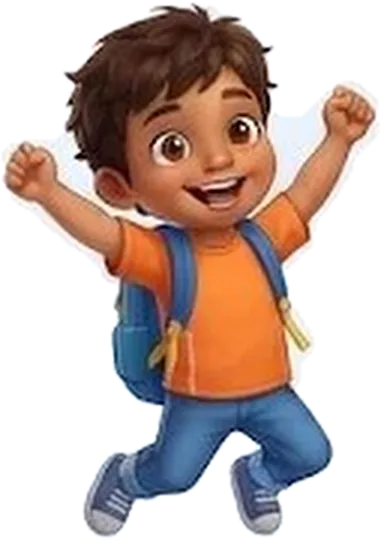
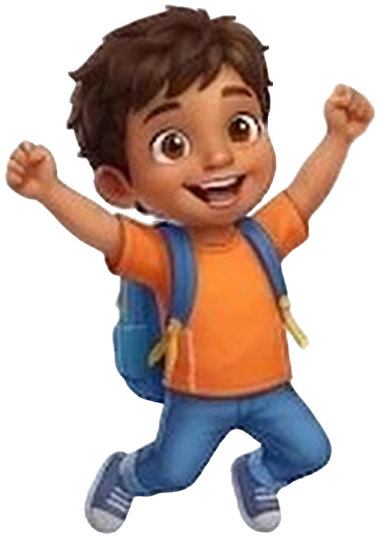
Clean MyPal cut-outs, dinosaur Memory cards, Space Scale for 6-8 only
- Re-extract all four MyPal poses with a cartoon-character segmentation
  model: the white photo leftovers (between the arms, around the jump pose,
  above the tablet, the ground shadow) and the pale halo are gone. Edge
  pixels take the character's own colours, so he looks clean on dark and
  light screens. Higher-quality WebP; head, favicon and touch icon redone.
- Memory: eight dinosaur cards (T. rex, Triceratops, Stegosaurus, long-neck,
  Pterodactyl, baby dino in an egg, Ankylosaurus, Spinosaurus) with a fern
  card back.
- Learn: Space Scale is offered to ages 6-8 only; the navigation check now
  expects no Space Scale tile for 3-5.

diff --git a/src/games/memory/icons.tsx b/src/games/memory/icons.tsx
@@ -1,126 +1,134 @@
 import type { ReactNode } from "react";
 
+// Eight friendly dinosaur cards, drawn on a 64×64 grid with the site's thick dark
+// outline so each pair is easy to tell apart at a glance.
 export const memoryIcons = {
-  sat: "Saturn",
-  rocket: "Rocket",
-  star: "Star",
-  ufo: "UFO",
-  moon: "Moon",
-  astro: "Astronaut",
-  comet: "Comet",
-  alien: "Alien",
+  trex: "T. rex",
+  tri: "Triceratops",
+  stego: "Stegosaurus",
+  longneck: "Long-neck dinosaur",
+  ptero: "Pterodactyl",
+  egg: "Baby dino in an egg",
+  ankylo: "Ankylosaurus",
+  spino: "Spinosaurus",
 } as const;
 
 export type MemoryIconName = keyof typeof memoryIcons;
 
+const line = { stroke: "#1E1B4B", strokeWidth: 3.5, strokeLinejoin: "round", strokeLinecap: "round" } as const;
+const thin = { stroke: "#1E1B4B", strokeWidth: 2.5, strokeLinejoin: "round", strokeLinecap: "round" } as const;
+
+/** A side-view eye with a shine dot and a rosy cheek. */
+function Eye({ x, y }: { x: number; y: number }) {
+  return <>
+    <ellipse cx={x} cy={y} rx="2.7" ry="3.3" fill="#1E1B4B" />
+    <circle cx={x + 0.9} cy={y - 1.2} r="1.1" fill="#fff" />
+  </>;
+}
+
+function Cheek({ x, y }: { x: number; y: number }) {
+  return <ellipse cx={x} cy={y} rx="3" ry="2" fill="#FF6B9A" opacity=".7" />;
+}
+
 const artwork: Record<MemoryIconName, ReactNode> = {
-  sat: <>
-    <path d="M6 40Q4 28 32 22" fill="none" stroke="#1E1B4B" strokeWidth="11" strokeLinecap="round" opacity="0" />
-    <path d="M5 38Q10 24 32 24" fill="none" stroke="#1E1B4B" strokeWidth="8" strokeLinejoin="round" strokeLinecap="round" />
-    <path d="M5 38Q10 24 32 24" fill="none" stroke="#8B7CFF" strokeWidth="4" strokeLinecap="round" />
-    <circle cx="32" cy="32" r="19" fill="#FFB347" stroke="#1E1B4B" strokeWidth="3.5" strokeLinejoin="round" strokeLinecap="round" />
-    <path d="M14 27Q32 33 50 27M15 40Q32 46 49 40" stroke="#FF8A3D" strokeWidth="4" fill="none" strokeLinecap="round" opacity=".6" />
-    <ellipse cx="23" cy="21" rx="5" ry="3" fill="#fff" opacity=".55" transform="rotate(-30 23 21)" />
-    <ellipse cx="25" cy="32" rx="2.9" ry="3.5" fill="#1E1B4B" />
-    <ellipse cx="39" cy="32" rx="2.9" ry="3.5" fill="#1E1B4B" />
-    <circle cx="26" cy="30.8" r="1.1" fill="#fff" />
-    <circle cx="40" cy="30.8" r="1.1" fill="#fff" />
-    <ellipse cx="21" cy="37" rx="3" ry="2" fill="#FF6B9A" opacity=".7" />
-    <ellipse cx="43" cy="37" rx="3" ry="2" fill="#FF6B9A" opacity=".7" />
-    <path d="M27 37Q32 43 37 37Z" fill="#7F1D3A" stroke="#1E1B4B" strokeWidth="2" strokeLinejoin="round" />
-    <path d="M59 38Q54 52 32 52" fill="none" stroke="#1E1B4B" strokeWidth="8" strokeLinejoin="round" strokeLinecap="round" />
-    <path d="M59 38Q54 52 32 52" fill="none" stroke="#8B7CFF" strokeWidth="4" strokeLinecap="round" />
+  trex: <>
+    <path d="M17 44Q7 46 3 57Q13 54 20 50z" fill="#4ADE80" {...line} />
+    <rect x="21" y="49" width="7" height="10" rx="3" fill="#22C55E" {...thin} />
+    <rect x="32" y="49" width="7" height="10" rx="3" fill="#22C55E" {...thin} />
+    <ellipse cx="30" cy="41" rx="14" ry="12" fill="#4ADE80" {...line} />
+    <path d="M24 39Q30 45 36 39" fill="none" stroke="#BBF7D0" strokeWidth="4" strokeLinecap="round" />
+    <path d="M40 36l6 2-1 4" fill="none" {...thin} />
+    <path d="M25 13Q25 5 35 5h14q11 0 11 10v8q0 7-8 7H37q-9 0-11-7z" fill="#4ADE80" {...line} />
+    <path d="M41 23h16" {...thin} />
+    <path d="M44 23l2 3 2-3M50 23l2 3 2-3" fill="#fff" stroke="#1E1B4B" strokeWidth="1.5" strokeLinejoin="round" />
+    <Eye x={37} y={14} />
+    <Cheek x={33} y={21} />
+    <circle cx="26" cy="33" r="2" fill="#22C55E" /><circle cx="20" cy="40" r="1.6" fill="#22C55E" />
   </>,
-  rocket: <>
-    <path d="M16 38L5 52l14-2zM48 38l11 14-14-2z" fill="#FF6B4A" stroke="#1E1B4B" strokeWidth="3.5" strokeLinejoin="round" strokeLinecap="round" />
-    <path d="M25 48h14l-7 13z" fill="#FFD13B" stroke="#1E1B4B" strokeWidth="3.5" strokeLinejoin="round" strokeLinecap="round" />
-    <path d="M32 4Q52 18 48 46H16Q12 18 32 4z" fill="#F8FAFC" stroke="#1E1B4B" strokeWidth="3.5" strokeLinejoin="round" strokeLinecap="round" />
-    <path d="M32 4Q44 12 46 28" fill="none" stroke="#E2E8F0" strokeWidth="4" strokeLinecap="round" />
-    <path d="M32 4Q26 8 24 14Q32 10 40 14Q38 8 32 4z" fill="#FF6B4A" stroke="#1E1B4B" strokeWidth="2.5" strokeLinejoin="round" strokeLinecap="round" />
-    <circle cx="32" cy="26" r="9" fill="#38BDF8" stroke="#1E1B4B" strokeWidth="3.5" strokeLinejoin="round" strokeLinecap="round" />
-    <circle cx="29" cy="23" r="2.6" fill="#fff" opacity=".85" />
-    <ellipse cx="27" cy="40" rx="2.9" ry="2.6" fill="#1E1B4B" />
-    <ellipse cx="37" cy="40" rx="2.9" ry="2.6" fill="#1E1B4B" />
-    <circle cx="28" cy="38.8" r="1.1" fill="#fff" />
-    <circle cx="38" cy="38.8" r="1.1" fill="#fff" />
-    <ellipse cx="23" cy="45" rx="3" ry="2" fill="#FF6B9A" opacity=".7" />
-    <ellipse cx="41" cy="45" rx="3" ry="2" fill="#FF6B9A" opacity=".7" />
-    <path d="M28.5 45Q32 51 35.5 45Z" fill="#7F1D3A" stroke="#1E1B4B" strokeWidth="2" strokeLinejoin="round" />
+  tri: <>
+    <path d="M10 42Q3 42 2 48Q8 47 12 47z" fill="#FF8A3D" {...thin} />
+    <rect x="12" y="46" width="6" height="11" rx="3" fill="#EA6A1F" {...thin} />
+    <rect x="30" y="46" width="6" height="11" rx="3" fill="#EA6A1F" {...thin} />
+    <ellipse cx="25" cy="40" rx="16" ry="11" fill="#FF8A3D" {...line} />
+    <circle cx="43" cy="29" r="15" fill="#FFD13B" {...line} />
+    <path d="M33 22l-2-3M37 17l-1-3M43 15v-3M49 17l1-3M53 22l2-3" stroke="#1E1B4B" strokeWidth="2.5" strokeLinecap="round" />
+    <path d="M42 26L36 9l10 15z" fill="#F8FAFC" {...thin} />
+    <path d="M52 27l6-15 1 16z" fill="#F8FAFC" {...thin} />
+    <ellipse cx="48" cy="38" rx="12" ry="10" fill="#FF8A3D" {...line} />
+    <path d="M58 35l5-5-1 8z" fill="#F8FAFC" {...thin} />
+    <Eye x={47} y={35} />
+    <Cheek x={51} y={42} />
+    <path d="M53 44q3 2 6 0" fill="none" {...thin} />
   </>,
-  star: <>
-    <path d="M32 4l8.6 17.6 19.4 2.8-14 13.7 3.3 19.3L32 48.3 14.7 57.4 18 38.1 4 24.4l19.4-2.8z" fill="#FFD13B" stroke="#1E1B4B" strokeWidth="3.5" strokeLinejoin="round" strokeLinecap="round" />
-    <path d="M32 10l5 11" stroke="#FFF3A8" strokeWidth="4" strokeLinecap="round" fill="none" />
-    <ellipse cx="25" cy="31" rx="2.9" ry="3.5" fill="#1E1B4B" />
-    <ellipse cx="39" cy="31" rx="2.9" ry="3.5" fill="#1E1B4B" />
-    <circle cx="26" cy="29.8" r="1.1" fill="#fff" />
-    <circle cx="40" cy="29.8" r="1.1" fill="#fff" />
-    <ellipse cx="21" cy="36" rx="3" ry="2" fill="#FF6B9A" opacity=".7" />
-    <ellipse cx="43" cy="36" rx="3" ry="2" fill="#FF6B9A" opacity=".7" />
-    <path d="M27 36Q32 42 37 36Z" fill="#7F1D3A" stroke="#1E1B4B" strokeWidth="2" strokeLinejoin="round" />
+  stego: <>
+    <path d="M14 27l2-12 7 10zM24 23l4-13 6 13zM35 23l5-11 4 13zM45 27l6-8 2 11z" fill="#FFD13B" {...thin} />
+    <path d="M10 46Q3 44 2 38l4 2 1-5 4 6" fill="#8B7CFF" {...thin} />
+    <rect x="15" y="44" width="7" height="13" rx="3" fill="#6D5DEB" {...thin} />
+    <rect x="38" y="44" width="7" height="13" rx="3" fill="#6D5DEB" {...thin} />
+    <path d="M8 46Q10 24 31 23q20 1 25 19 4 5 6 6-6 4-13 1H8z" fill="#8B7CFF" {...line} />
+    <path d="M16 38Q30 30 44 38" fill="none" stroke="#B6A9FF" strokeWidth="4" strokeLinecap="round" />
+    <Eye x={53} y={41} />
+    <path d="M56 46q2 1 4-1" fill="none" stroke="#1E1B4B" strokeWidth="2" strokeLinecap="round" />
   </>,
-  ufo: <>
-    <path d="M20 30Q20 8 32 8t12 22z" fill="#A5F3FC" stroke="#1E1B4B" strokeWidth="3.5" strokeLinejoin="round" strokeLinecap="round" />
-    <ellipse cx="32" cy="22" rx="6" ry="8" fill="#2CE69B" stroke="#1E1B4B" strokeWidth="2.5" />
-    <circle cx="30" cy="21" r="1.6" fill="#1E1B4B" />
-    <circle cx="35" cy="21" r="1.6" fill="#1E1B4B" />
-    <ellipse cx="32" cy="35" rx="28" ry="11" fill="#8B7CFF" stroke="#1E1B4B" strokeWidth="3.5" strokeLinejoin="round" strokeLinecap="round" />
-    <ellipse cx="32" cy="32" rx="20" ry="4" fill="#B6A9FF" opacity=".6" />
-    <circle cx="14" cy="37" r="3.2" fill="#FFD13B" stroke="#1E1B4B" strokeWidth="2" />
-    <circle cx="32" cy="41" r="3.2" fill="#FFD13B" stroke="#1E1B4B" strokeWidth="2" />
-    <circle cx="50" cy="37" r="3.2" fill="#FFD13B" stroke="#1E1B4B" strokeWidth="2" />
-    <path d="M22 47l-5 12M42 47l5 12" stroke="#FFD13B" strokeWidth="4" strokeLinecap="round" opacity=".8" />
+  longneck: <>
+    <path d="M10 44Q2 46 2 55Q8 51 13 50z" fill="#38BDF8" {...thin} />
+    <rect x="12" y="46" width="7" height="12" rx="3" fill="#0EA5E9" {...thin} />
+    <rect x="29" y="46" width="7" height="12" rx="3" fill="#0EA5E9" {...thin} />
+    <ellipse cx="24" cy="43" rx="16" ry="10" fill="#38BDF8" {...line} />
+    <path d="M31 37Q41 31 41 14h9q1 22-12 31z" fill="#38BDF8" {...line} />
+    <ellipse cx="49" cy="12" rx="11" ry="7" fill="#38BDF8" {...line} />
+    <path d="M44 22q2 6 0 12" fill="none" stroke="#BAE6FD" strokeWidth="3" strokeLinecap="round" />
+    <Eye x={50} y={10} />
+    <Cheek x={53} y={15} />
+    <path d="M55 15q2 1 3-1" fill="none" stroke="#1E1B4B" strokeWidth="2" strokeLinecap="round" />
+    <circle cx="18" cy="40" r="2" fill="#0EA5E9" /><circle cx="26" cy="37" r="1.6" fill="#0EA5E9" />
   </>,
-  moon: <>
-    <path d="M40 5A27 27 0 1 0 59 44 22 22 0 0 1 40 5z" fill="#FFD13B" stroke="#1E1B4B" strokeWidth="3.5" strokeLinejoin="round" strokeLinecap="round" />
-    <path d="M26 14Q14 22 14 34" fill="none" stroke="#FFF3A8" strokeWidth="4" strokeLinecap="round" />
-    <circle cx="22" cy="42" r="4" fill="#F5B800" stroke="#1E1B4B" strokeWidth="2" />
-    <ellipse cx="20" cy="32" rx="2.9" ry="3.5" fill="#1E1B4B" />
-    <ellipse cx="32" cy="32" rx="2.9" ry="3.5" fill="#1E1B4B" />
-    <circle cx="21" cy="30.8" r="1.1" fill="#fff" />
-    <circle cx="33" cy="30.8" r="1.1" fill="#fff" />
-    <ellipse cx="16" cy="37" rx="3" ry="2" fill="#FF6B9A" opacity=".7" />
-    <ellipse cx="36" cy="37" rx="3" ry="2" fill="#FF6B9A" opacity=".7" />
-    <path d="M22 37Q26 43 30 37Z" fill="#7F1D3A" stroke="#1E1B4B" strokeWidth="2" strokeLinejoin="round" />
-    <path d="M52 12l2 4 4 2-4 2-2 4-2-4-4-2 4-2z" fill="#fff" stroke="#1E1B4B" strokeWidth="1.5" strokeLinejoin="round" />
+  ptero: <>
+    <path d="M30 30L3 16q6 13 4 23 12-7 23-3z" fill="#FF6B9A" {...line} />
+    <path d="M34 30L61 16q-6 13-4 23-12-7-23-3z" fill="#FF6B9A" {...line} />
+    <path d="M9 22q9 5 17 9M55 22q-9 5-17 9" stroke="#FFC2D6" strokeWidth="2.5" fill="none" strokeLinecap="round" />
+    <ellipse cx="32" cy="38" rx="7" ry="11" fill="#FF8FB1" {...line} />
+    <path d="M28 49l-2 6M36 49l2 6" {...thin} />
+    <path d="M27 14L17 6l13 4z" fill="#FFD13B" {...thin} />
+    <circle cx="32" cy="18" r="8.5" fill="#FF8FB1" {...line} />
+    <path d="M39 16l13 3-13 4z" fill="#FFD13B" {...thin} />
+    <Eye x={33} y={16} />
+    <Cheek x={29} y={22} />
   </>,
-  astro: <>
-    <circle cx="32" cy="32" r="26" fill="#F8FAFC" stroke="#1E1B4B" strokeWidth="3.5" strokeLinejoin="round" strokeLinecap="round" />
-    <rect x="13" y="17" width="38" height="29" rx="14" fill="#2B2A7A" stroke="#1E1B4B" strokeWidth="3.5" strokeLinejoin="round" strokeLinecap="round" />
-    <path d="M18 24Q24 20 34 21" stroke="#8FA8FF" strokeWidth="3" fill="none" strokeLinecap="round" />
-    <ellipse cx="25" cy="33" rx="2.9" ry="3.5" fill="#fff" />
-    <ellipse cx="39" cy="33" rx="2.9" ry="3.5" fill="#fff" />
-    <circle cx="26" cy="31.8" r="1.1" fill="#fff" />
-    <circle cx="40" cy="31.8" r="1.1" fill="#fff" />
-    <ellipse cx="21" cy="38" rx="3" ry="2" fill="#FF6B9A" opacity=".7" />
-    <ellipse cx="43" cy="38" rx="3" ry="2" fill="#FF6B9A" opacity=".7" />
-    <path d="M27 38Q32 44 37 38Z" fill="#7F1D3A" stroke="#1E1B4B" strokeWidth="2" strokeLinejoin="round" />
-    <rect x="26" y="52" width="12" height="7" rx="3" fill="#FF6B4A" stroke="#1E1B4B" strokeWidth="2.5" />
-    <circle cx="55" cy="22" r="4" fill="#FF6B4A" stroke="#1E1B4B" strokeWidth="2.5" />
+  egg: <>
+    <circle cx="32" cy="24" r="14" fill="#4ADE80" {...line} />
+    <path d="M22 13l4-7 6 5 6-5 4 7q-10-6-20 0z" fill="#FFF3D6" {...thin} />
+    <Eye x={27} y={22} /><Eye x={37} y={22} />
+    <Cheek x={23} y={28} /><Cheek x={41} y={28} />
+    <path d="M29 28q3 4 6 0z" fill="#7F1D3A" stroke="#1E1B4B" strokeWidth="2" strokeLinejoin="round" />
+    <path d="M10 35l6-6 6 6 6-6 4 4 4-4 6 6 6-6 6 6q0 25-22 25T10 35z" fill="#FFF3D6" {...line} />
+    <circle cx="20" cy="45" r="3" fill="#A7F3D0" /><circle cx="42" cy="49" r="4" fill="#A7F3D0" /><circle cx="31" cy="54" r="2.2" fill="#A7F3D0" />
   </>,
-  comet: <>
-    <path d="M4 58Q18 34 38 26" stroke="#FF6B4A" strokeWidth="13" fill="none" strokeLinecap="round" opacity=".6" />
-    <path d="M10 60Q26 42 42 32" stroke="#FFD13B" strokeWidth="7" fill="none" strokeLinecap="round" />
-    <circle cx="43" cy="24" r="17" fill="#FF8A3D" stroke="#1E1B4B" strokeWidth="3.5" strokeLinejoin="round" strokeLinecap="round" />
-    <ellipse cx="36" cy="17" rx="5" ry="3" fill="#fff" opacity=".5" transform="rotate(-30 36 17)" />
-    <ellipse cx="37" cy="24" rx="2.9" ry="3.5" fill="#1E1B4B" />
-    <ellipse cx="49" cy="24" rx="2.9" ry="3.5" fill="#1E1B4B" />
-    <circle cx="38" cy="22.8" r="1.1" fill="#fff" />
-    <circle cx="50" cy="22.8" r="1.1" fill="#fff" />
-    <ellipse cx="33" cy="29" rx="3" ry="2" fill="#FF6B9A" opacity=".7" />
-    <ellipse cx="53" cy="29" rx="3" ry="2" fill="#FF6B9A" opacity=".7" />
-    <path d="M38.5 29Q43 35 47.5 29Z" fill="#7F1D3A" stroke="#1E1B4B" strokeWidth="2" strokeLinejoin="round" />
+  ankylo: <>
+    <path d="M9 42Q4 40 5 34" fill="none" {...line} />
+    <circle cx="6" cy="31" r="5" fill="#C2410C" {...thin} />
+    <rect x="14" y="44" width="7" height="10" rx="3" fill="#D97706" {...thin} />
+    <rect x="38" y="44" width="7" height="10" rx="3" fill="#D97706" {...thin} />
+    <path d="M18 24l3-6 3 5M29 21l3-7 3 7M40 23l3-6 3 6" fill="#F8FAFC" {...thin} />
+    <path d="M8 46Q9 22 31 21q21 1 23 24z" fill="#F5B800" {...line} />
+    <circle cx="20" cy="33" r="3" fill="#D97706" /><circle cx="31" cy="29" r="3" fill="#D97706" />
+    <circle cx="42" cy="33" r="3" fill="#D97706" /><circle cx="26" cy="39" r="2.4" fill="#D97706" /><circle cx="37" cy="39" r="2.4" fill="#D97706" />
+    <ellipse cx="55" cy="44" rx="7" ry="6" fill="#F5B800" {...line} />
+    <Eye x={56} y={42} />
+    <path d="M56 48q2 1 4-1" fill="none" stroke="#1E1B4B" strokeWidth="2" strokeLinecap="round" />
   </>,
-  alien: <>
-    <path d="M20 14L15 5M44 14l5-9" stroke="#1E1B4B" strokeWidth="3.5" strokeLinecap="round" />
-    <circle cx="15" cy="5" r="3.6" fill="#FF6B9A" stroke="#1E1B4B" strokeWidth="2.5" />
-    <circle cx="49" cy="5" r="3.6" fill="#FF6B9A" stroke="#1E1B4B" strokeWidth="2.5" />
-    <path d="M6 36Q6 11 32 11t26 25q0 22-26 22T6 36z" fill="#2CE69B" stroke="#1E1B4B" strokeWidth="3.5" strokeLinejoin="round" strokeLinecap="round" />
-    <ellipse cx="20" cy="34" rx="7" ry="9" fill="#1E1B4B" transform="rotate(-12 20 34)" />
-    <ellipse cx="44" cy="34" rx="7" ry="9" fill="#1E1B4B" transform="rotate(12 44 34)" />
-    <circle cx="22" cy="31" r="2.6" fill="#fff" />
-    <circle cx="46" cy="31" r="2.6" fill="#fff" />
-    <path d="M26 48Q32 54 38 48Z" fill="#7F1D3A" stroke="#1E1B4B" strokeWidth="2.5" strokeLinejoin="round" />
-    <path d="M16 18Q22 13 30 13" stroke="#9FF5CF" strokeWidth="3.5" fill="none" strokeLinecap="round" />
+  spino: <>
+    <path d="M13 44Q4 46 2 56q8-4 13-6z" fill="#2DD4BF" {...thin} />
+    <rect x="19" y="45" width="7" height="12" rx="3" fill="#14B8A6" {...thin} />
+    <rect x="33" y="45" width="7" height="12" rx="3" fill="#14B8A6" {...thin} />
+    <path d="M13 38Q15 8 31 6q16 2 18 30z" fill="#FF6B4A" {...line} />
+    <path d="M20 33l1-17M26 31l1-21M33 31V8M40 32l1-19" stroke="#FFC4A8" strokeWidth="2" strokeLinecap="round" />
+    <ellipse cx="30" cy="40" rx="17" ry="10" fill="#2DD4BF" {...line} />
+    <path d="M42 36q6-8 15-5l5 5q-2 6-10 6-7 0-10-6z" fill="#2DD4BF" {...line} />
+    <path d="M49 39h11" stroke="#1E1B4B" strokeWidth="2" strokeLinecap="round" />
+    <Eye x={50} y={33} />
+    <Cheek x={47} y={39} />
+    <path d="M22 40Q30 46 38 40" fill="none" stroke="#99F6E4" strokeWidth="4" strokeLinecap="round" />
   </>,
 };
 
@@ -130,9 +138,11 @@ export function MemoryIcon({ name }: { name: MemoryIconName }) {
   </svg>;
 }
 
+/** Card back: a fern leaf from the dinosaurs' world. */
 export function MemoryCardBack() {
   return <svg className="memory-icon" viewBox="0 0 64 64" aria-hidden="true" focusable="false">
-    <path d="M32 8 Q37 27 56 32 Q37 37 32 56 Q27 37 8 32 Q27 27 32 8Z" fill="#FFD13B" />
-    <path d="M32 13 Q30 26 17 31 Q29 29 32 22Z" fill="#FFF3A8" />
+    <path d="M32 58V8" stroke="#2CE69B" strokeWidth="3" strokeLinecap="round" />
+    <path d="M32 50Q20 48 14 40Q24 40 32 46M32 50Q44 48 50 40Q40 40 32 46M32 38Q22 36 17 29Q26 29 32 34M32 38Q42 36 47 29Q38 29 32 34M32 27Q24 25 21 19Q28 19 32 23M32 27Q40 25 43 19Q36 19 32 23M32 16Q28 13 28 8Q32 9 32 12Q32 9 36 8Q36 13 32 16"
+      fill="#2CE69B" stroke="#9FF5CF" strokeWidth="1" strokeLinejoin="round" />
   </svg>;
 }

diff --git a/src/components/activitySuggestions.ts b/src/components/activitySuggestions.ts
@@ -17,9 +17,10 @@ const balloons: ActivitySuggestion = { activity: "balloons", title: "Balloon Cou
 export function availableActivities(profile: ChildProfile, preferences: Preferences): ActivitySuggestion[] {
   if (profile.ageBand === "1-2") return [video];
   const moves = activeModes(preferences.location).map((mode) => ({ activity: mode, title: MODES[mode].name, description: MODES[mode].description, icon: MODES[mode].icon }));
+  // Space Scale's distances and big numbers suit 6–8, not 3–5.
   const older: ActivitySuggestion[] = profile.ageBand === "6-8" ? [ask, sketchGameMeta,
-    { activity: "tic-tac-toe", title: "Tic-tac-toe", description: "Try three in a row against the computer.", icon: "⭐" }] : [];
-  return [quiz, memory, ...older, spaceGameMeta, balloons, ...moves, video];
+    { activity: "tic-tac-toe", title: "Tic-tac-toe", description: "Try three in a row against the computer.", icon: "⭐" }, spaceGameMeta] : [];
+  return [quiz, memory, ...older, balloons, ...moves, video];
 }
 
 export function startingActivity(profile: ChildProfile, preferences: Preferences): ActivitySuggestion {

diff --git a/src/App.tsx b/src/App.tsx
@@ -354,8 +354,8 @@ export default function App() {
       return <Sketch key={screen.id} onBack={goBack}
         onComplete={(points) => earn(screen.id, "sketch", points)} />;
     }
-    if (screen.name === "space" && profile.ageBand !== "1-2") {
-      return <Space key={screen.id} exploreOnly={profile.ageBand === "3-5"} onBack={goBack}
+    if (screen.name === "space" && profile.ageBand === "6-8") {
+      return <Space key={screen.id} exploreOnly={false} onBack={goBack}
         onComplete={(points) => earn(screen.id, "space", points)} />;
     }
     if (screen.name === "balloons" && profile.ageBand !== "1-2") {

diff --git a/src/screens/Memory.tsx b/src/screens/Memory.tsx
@@ -97,7 +97,7 @@ export function Memory({ pairs, onBack, onComplete, onReplay }: {
           <aside className="memory-guide" aria-label={`${APP_NAME}`}>
             <div className="memory-guide-mascot"><Mascot pose={won ? "jump" : "point"} /></div>
             <SpeechBubble className="memory-speech" live>
-              {won ? "You found them all!" : missed ? "Oops, not a pair! Try again!" : "Find the matching space friends!"}
+              {won ? "You found them all!" : missed ? "Oops, not a pair! Try again!" : "Find the matching dino friends!"}
             </SpeechBubble>
           </aside>
         </div>

diff --git a/src/components/Mascot.tsx b/src/components/Mascot.tsx
@@ -12,7 +12,7 @@ export type MascotAction = "clap" | "jump" | "wave" | "sneak" | "drink" | "none"
 
 // Intrinsic sizes of public/mascot/mypal-*.webp, so the layout never jumps while loading.
 const art: Record<MascotPose, [number, number]> = {
-  wave: [332, 553], jump: [381, 539], tablet: [268, 562], point: [307, 542],
+  wave: [329, 551], jump: [379, 537], tablet: [268, 562], point: [304, 542],
 };
 
 export function poseFor(mood: MascotMood, action: MascotAction = "none"): MascotPose {

diff --git a/src/games/space/meta.ts b/src/games/space/meta.ts
@@ -3,6 +3,6 @@ export const spaceGameMeta = {
   title: "Space Scale",
   description: "How big is space? Scroll and see!",
   icon: "🪐",
-  ageBands: ["3-5", "6-8"],
+  ageBands: ["6-8"],
   activity: "space",
 } as const;
